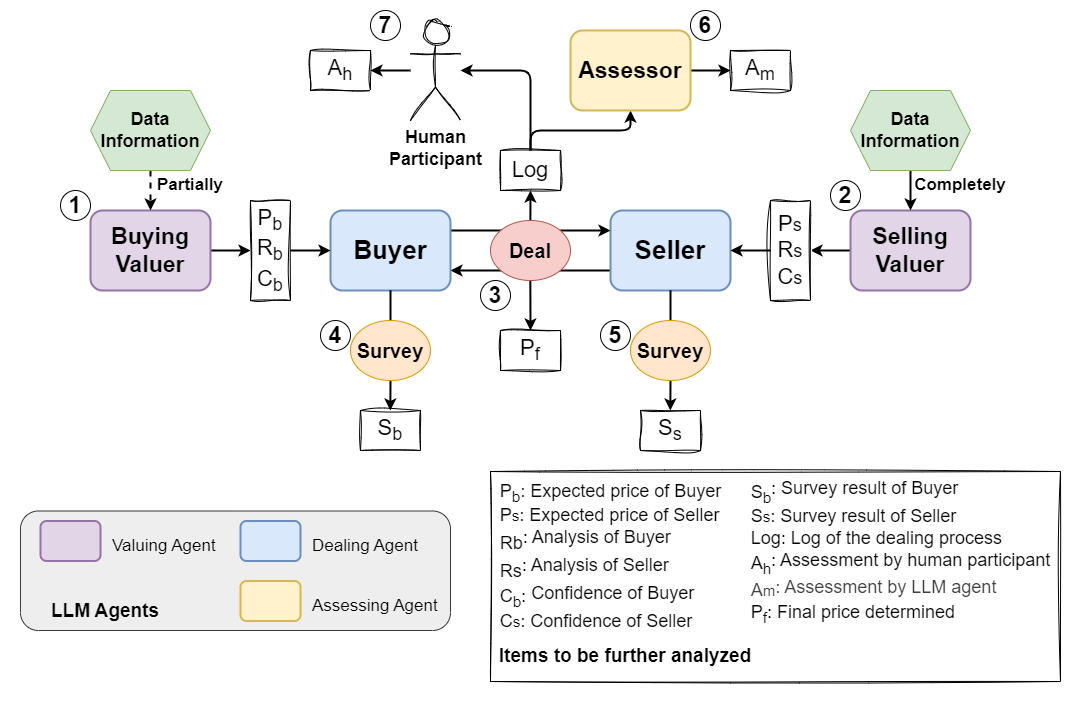
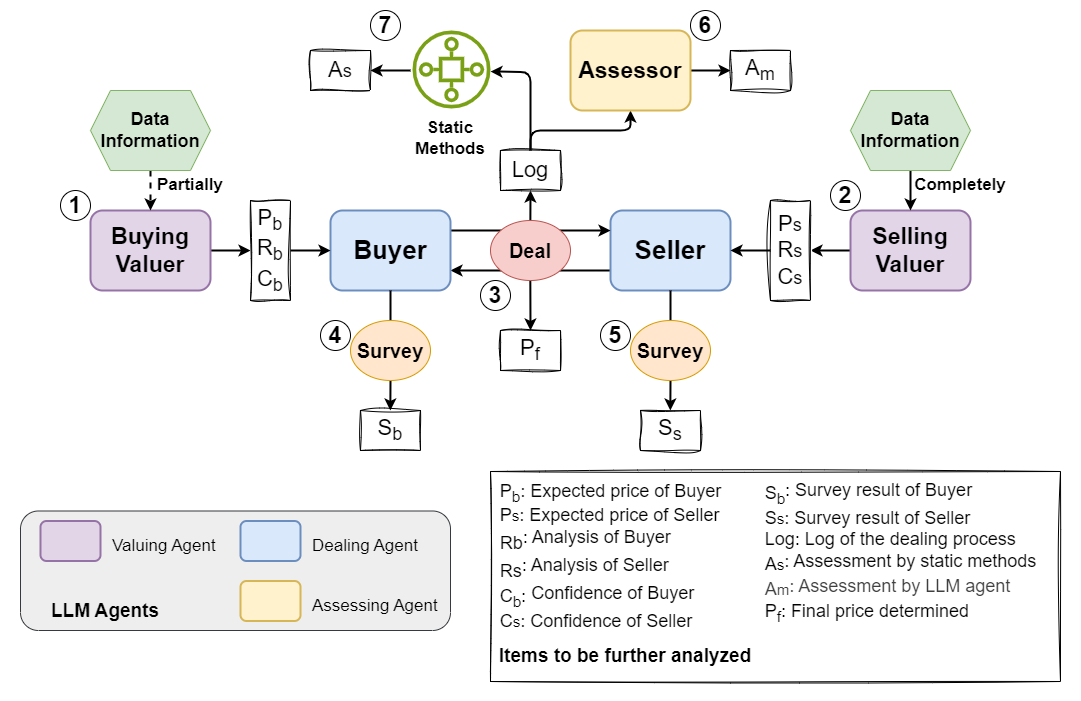
Fixed a bit.

Changed region(s): [[0.7021, 0.689, 0.9769, 0.8987], [0.3663, 0.03, 0.4884, 0.2397], [0.3053, 0.0899, 0.3358, 0.1198]]

diff --git a/experiment.py b/experiment.py
@@ -2,45 +2,49 @@ import os
 from agents.value_agent import ValuerAgent
 from agents.deal_agent import DealAgent
 from agents.assess_agent import AssessorAgent
-
 from config import AGENT_SETTINGS
+import time
+
+
 #config
 OPENAI_API_KEY = os.getenv("OPENAI_API_KEY")
 
 # variables
-b_model_performance_improvement = [0.4, "NULL", 0.4, 0.5]
-b_capacity = ["NULL", "small", "medium", "large"]
-b_data_entrophy = ["NULL", "low", "medium", "high"]
-b_data_life = ["short", "NULL", "short", "medium", "long"]
-b_history = ["NULL", "short", "medium", "long"]
-b_market = ["NULL", "small", "medium", "large"]
+model_performance_improvement = [0.4, 0.5]
+capacity = ["small", "medium", "large"]
+data_entrophy = ["low", "medium", "high"]
+data_life = ["short", "medium", "long"]
+history = ["short", "medium", "long"]
+market = ["small", "medium", "large"]
 
-s_model_performance_improvement = [0.4, 0.5]
-s_capacity = ["small", "medium", "large"]
-s_data_entrophy = ["low", "medium", "high"]
-s_data_life = ["short", "medium", "long"]
-s_history = ["short", "medium", "long"]
-s_market = ["small", "medium", "large"]
+start_time = time.time()
 
-# Loop through each combination
 i = 0
-for b_mpi in b_model_performance_improvement:
-    for b_cap in b_capacity:
-        for b_de in b_data_entrophy:
-            for b_dl in b_data_life:
-                for b_hist in b_history:
-                    for b_market in b_market:
-                        for s_mpi in s_model_performance_improvement:
-                            for s_cap in s_capacity:
-                                for s_de in s_data_entrophy:
-                                    for s_dl in s_data_life:
-                                        for s_hist in s_history:
-                                            for s_market in s_market:
+for s_mpi in model_performance_improvement:
+    for s_cap in capacity:
+        for s_de in data_entrophy:
+            for s_dl in data_life:
+                for s_hist in history:
+                    for s_mark in market:
+                        for b_mpi in ["NULL", s_cap]:
+                            for b_cap in ["NULL", s_de]:
+                                for b_de in ["NULL", s_dl]:
+                                    for b_dl in ["NULL", s_hist]:
+                                        for b_hist in ["NULL", s_mark]:
+                                            for b_market in ["NULL", s_mpi]:
                                                 i += 1
+                                                argu = {
+                                                    "model_performance_improvement": (s_mpi, b_mpi),
+                                                    "capacity": (s_cap, b_cap),
+                                                    "data_entrophy": (s_de, b_de),
+                                                    "data_life": (s_dl, b_dl),
+                                                    "history": (s_hist, b_hist),
+                                                    "market": (s_mark, b_market)
+                                                }
                                                 buying_valuer = ValuerAgent(AGENT_SETTINGS["valuing_agent"])
                                                 buyer_value = buying_valuer.analyze(b_mpi, b_cap, b_de, b_dl, b_hist, b_market)
                                                 selling_valuer = ValuerAgent(AGENT_SETTINGS["valuing_agent"])
-                                                seller_value = selling_valuer.analyze(s_mpi, s_cap, s_de, s_dl, s_hist, s_market)
+                                                seller_value = selling_valuer.analyze(s_mpi, s_cap, s_de, s_dl, s_hist, s_mark)
                                                 print(f"{i}: Valuer Agent completed")
 
                                                 deal_agent = DealAgent(AGENT_SETTINGS["deal_agent"], i)
@@ -51,10 +55,14 @@ for b_mpi in b_model_performance_improvement:
                                                 assessor = AssessorAgent(AGENT_SETTINGS["assess_agent"], deal)
                                                 log_3 = assessor.analyze()
                                                 with open(f"assessments\{i}.txt", "w") as file:
+                                                    file.write("Arguments:\n")
+                                                    file.write(str(argu)+"\n")
                                                     file.write(log_3)
                                                 print(f"{i}: Assessor Agent completed")
 
                                                 with open(f"log\{i}.txt", "w") as file:
+                                                    file.write("Arguments:\n")
+                                                    file.write(str(argu)+"\n")
                                                     file.write("Buying Valuer:\n")
                                                     file.write(str(buyer_value)+"\n")
                                                     file.write("Selling Valuer:\n")
@@ -74,6 +82,8 @@ for b_mpi in b_model_performance_improvement:
             break
         break
     break
+end_time = time.time()
+print(f"Time taken: {end_time-start_time}")
 print("————————————————————————All experiments completed————————————————————————")
 
 

diff --git a/README.md b/README.md
@@ -2,14 +2,26 @@
 
 Beaver:
 
-设置openai的api、安装所需库后，直接运行experiment.py即可。循环结构已写好，但是只会执行第一轮。
+设置 OpenAI 的 API 和安装所需库后，直接运行 `experiment.py` 即可。循环结构已写好，但目前只会执行第一轮。
 
-基本结构已经写完了，之后根据需要再修改。
+基本结构已经完成，后续可根据需要进行修改。
 
-_prompt有待完善!!_
+_prompt 需要完善!!_
 
-在考虑把所有prompt整理到一个文件里，这样改起来可能方便一些。
+代码中有很多冗余部分，之后会逐步删除。
 
-有很多冗余的代码，之后再慢慢删。
+目前执行一次实验大约需要 1 分钟。
 
-多运行了几次，发现这agent是真蠢啊。
+多次运行后发现这个 agent 确实很蠢。
+
+## TODO：
+
+检查当前轮次的前手发言是否已加入 memory。
+
+`prompt_factory` 感觉还是没必要，不做了。
+
+## Structure：
+
+![alt text](image-1.png)
+
+⑦ 在代码中未实现。
